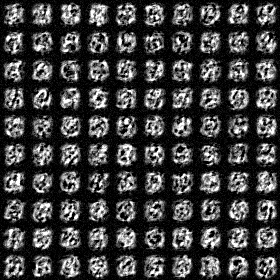
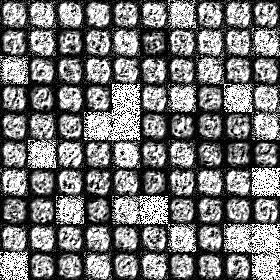
change some code using claude, now the loss is 0.11

diff --git a/main.py b/main.py
@@ -7,6 +7,7 @@ import torch.nn as nn
 import numpy as np
 from torchvision.transforms.functional import PILImage
 from PIL import Image 
+import torch.nn.functional as F
 
 from model import MLP
 from data import create_mnist_dataloaders, visualize_mnist_data
@@ -20,7 +21,7 @@ def main():
     device="cuda"
 
     train_epochs = 50
-    model = MLP(layers=[784, 1000, 1000, 1000, 1000, 784])
+    model = MLP(layers=[784, 2000, 2000, 2000, 2000, 784])
     model.to(device)
     print(model)
 
@@ -31,16 +32,20 @@ def main():
     scheduler = torch.optim.lr_scheduler.CosineAnnealingLR(optimizer, T_max=train_epochs)
 
     # load the model
-    steps = 100
-    betas = torch.linspace(0.0001, 0.02, steps, device=device)
+    steps = 1000
+    beta_start = 1e-4
+    beta_end = 0.02
+    betas = torch.linspace(beta_start, beta_end, steps).to(device)
     alphas = 1.0 - betas
     alphas_cumprod = torch.cumprod(alphas, dim=0)
+    alphas_cumprod_prev = F.pad(alphas_cumprod[:-1], (1, 0), value=1.0)
+
     sqrt_recip_alphas = 1.0 / torch.sqrt(alphas)
     sqrt_alphas_cumprod = torch.sqrt(alphas_cumprod)
     sqrt_one_minus_alphas_cumprod = torch.sqrt(1.0 - alphas_cumprod)
     
     # Posterior variance for reverse process
-    posterior_variance = betas * (1.0 - torch.cat([torch.tensor([1.0], device=device), alphas_cumprod[:-1]])) / (1.0 - alphas_cumprod)
+    posterior_variance = betas * (1 - alphas_cumprod_prev) / (1 - alphas_cumprod)
 
     if os.path.exists(f"model_{steps}.pth"):
         model.load_state_dict(torch.load(f"model_{steps}.pth"))

diff --git a/model.py b/model.py
@@ -14,6 +14,7 @@ class Layer(nn.Module):
         out = self.linear(x)
         out = self.silu(out)
         out = self.batch_norm(out)
+
         if self.output_size == self.input_size:
             out += x
         return out
